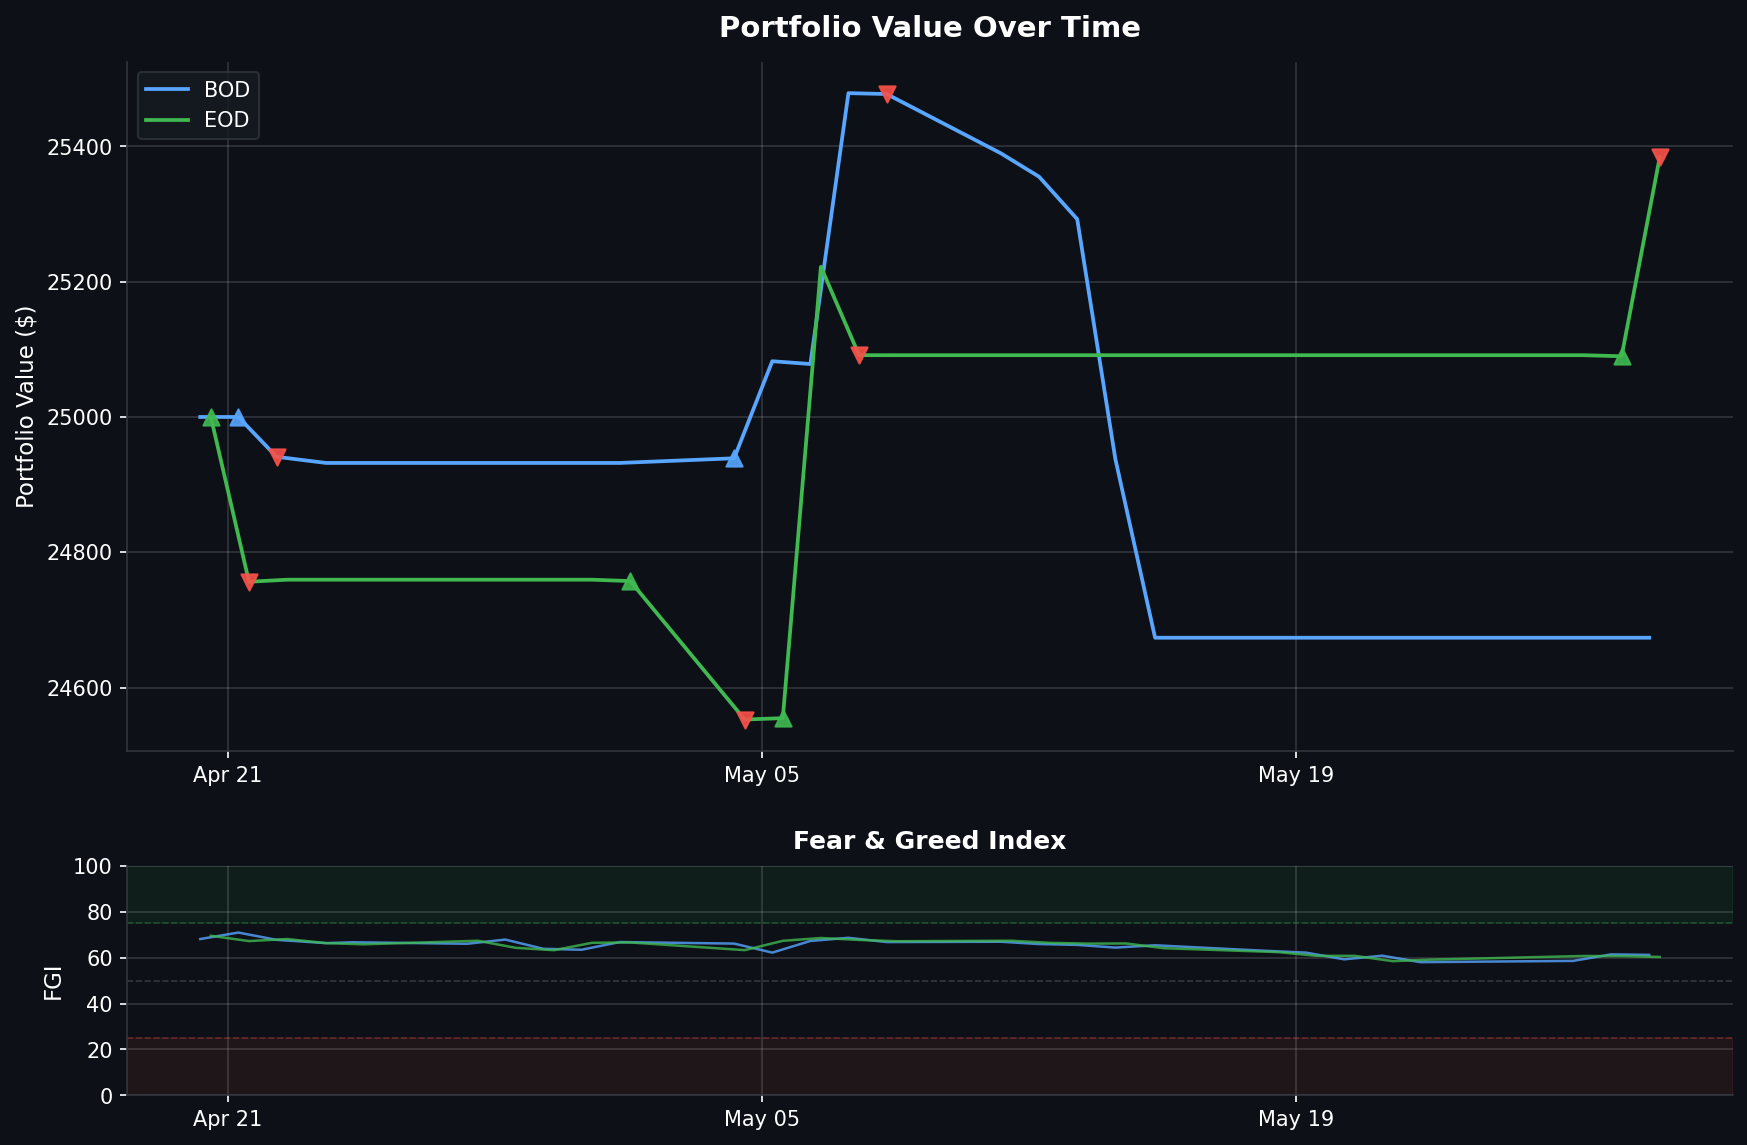
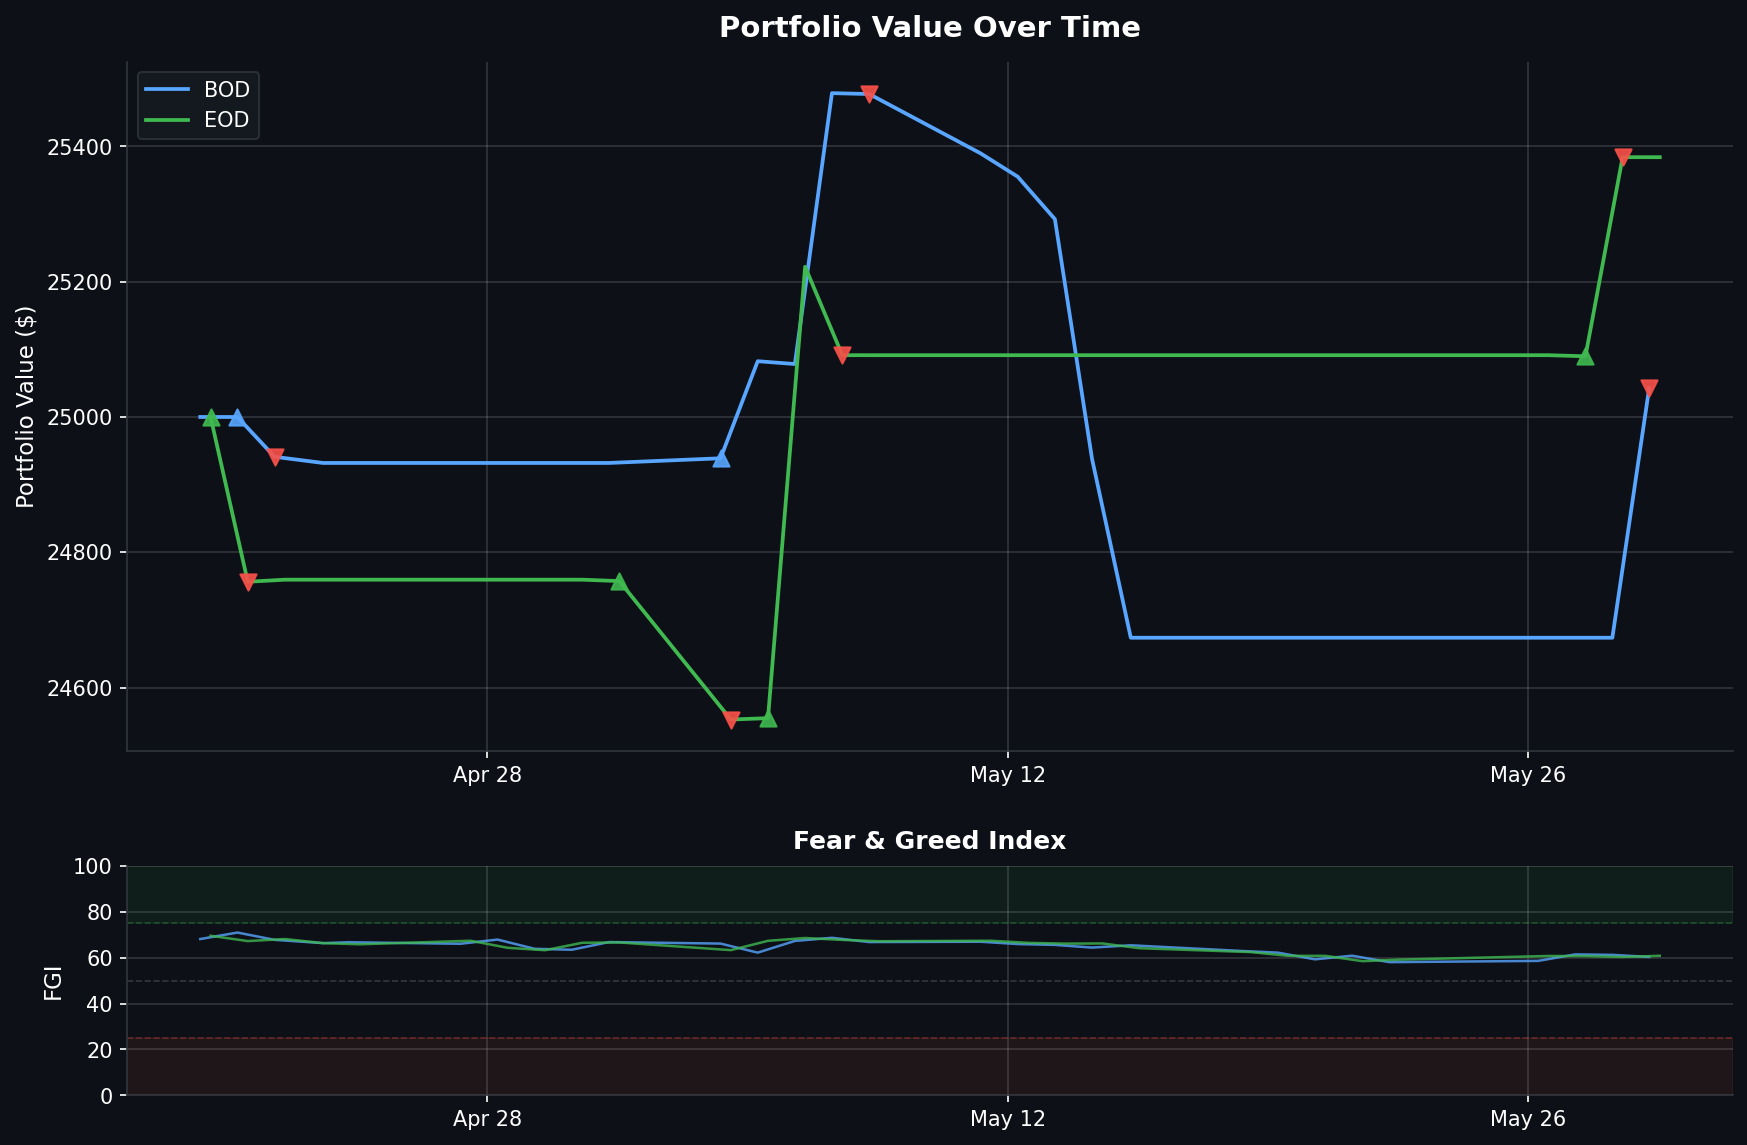
Daily data backup 2026-05-29

diff --git a/README.md b/README.md
@@ -1,6 +1,6 @@
 # Fear & Greed Index Trading Bot
 
-> Dashboard auto-updated daily at market close | Last update: **2026-05-28 13:30 PST**
+> Dashboard auto-updated daily at market close | Last update: **2026-05-29 13:30 PST**
 
 ![Portfolio Performance](assets/portfolio_chart.png)
 
@@ -10,14 +10,14 @@
 
 | Metric | Value |
 |--------|-------|
-| Portfolio Value | **$24,673.63** |
-| Buying Power | $49,347.26 |
-| Current FGI | 61.2 |
+| Portfolio Value | **$25,042.83** |
+| Buying Power | $50,085.66 |
+| Current FGI | 60.31 |
 | Position | FLAT |
 | Total P&L | **$+995** |
 | Win Rate | 50% (1W / 1L) |
 | Total Round Trips | 2 |
-| Last Signal | NO_ACTION @ 2026-05-28 06:33 |
+| Last Signal | SOLD @ 2026-05-29 06:21 |
 
 <details>
 <summary>Trade History (2 trades)</summary>
@@ -34,11 +34,11 @@
 
 | Time | Action | Price | FGI | Momentum | Velocity | Volatility | Reason |
 |------|--------|-------|-----|----------|----------|------------|--------|
+| 05-29 06:21 | SOLD | $755.68 | 60.31 | -0.66 | 0.58 | 0.101 | Momentum reversal or high volatility |
 | 05-28 06:33 | NO_ACTION | $750.37 | 61.2 | 0.81 | 1.06 | 0.1011 | BUY order submission failed after 3 attempts |
 | 05-27 06:33 | NO_ACTION | $750.90 | 61.4 | 2.07 | 0.19 | 0.1042 | BUY order submission failed after 3 attempts |
 | 05-26 06:30 | NO_ACTION | $750.05 | 58.57 | -0.57 | -0.23 | 0.103 | Insufficient momentum/velocity for entry |
 | 05-22 06:30 | NO_ACTION | $746.10 | 58.03 | -1.34 | -1.38 | 0.1048 | Insufficient momentum/velocity for entry |
-| 05-21 06:30 | NO_ACTION | $738.64 | 60.83 | 0.08 | -0.69 | 0.1071 | Insufficient momentum/velocity for entry |
 
 </details>
 
@@ -48,14 +48,14 @@
 
 | Metric | Value |
 |--------|-------|
-| Portfolio Value | **$25,384.12** |
-| Buying Power | $50,768.24 |
-| Current FGI | 60.29 |
+| Portfolio Value | **$25,384.10** |
+| Buying Power | $50,768.20 |
+| Current FGI | 60.8 |
 | Position | FLAT |
 | Total P&L | **$+302** |
 | Win Rate | 50% (2W / 2L) |
 | Total Round Trips | 4 |
-| Last Signal | SOLD @ 2026-05-28 13:11 |
+| Last Signal | NO_ACTION @ 2026-05-29 13:10 |
 
 <details>
 <summary>Trade History (4 trades)</summary>
@@ -74,11 +74,11 @@
 
 | Time | Action | Price | FGI | Momentum | Velocity | Volatility | Reason |
 |------|--------|-------|-----|----------|----------|------------|--------|
+| 05-29 13:10 | NO_ACTION | $756.49 | 60.8 | 0.22 | 0.03 | 0.101 | Insufficient momentum/velocity for entry |
 | 05-28 13:11 | SOLD | $755.22 | 60.29 | -0.26 | 0.38 | 0.1011 | Momentum reversal or high volatility |
 | 05-27 13:11 | BOUGHT | $750.78 | 60.66 | 0.49 | 0.73 | 0.1042 | Strong momentum/velocity, low volatility |
 | 05-26 13:10 | NO_ACTION | $750.56 | 60.71 | 1.27 | -0.02 | 0.103 | Insufficient momentum/velocity for entry |
 | 05-22 13:10 | NO_ACTION | $745.70 | 59.14 | -0.32 | -0.54 | 0.1048 | Insufficient momentum/velocity for entry |
-| 05-21 13:10 | NO_ACTION | $742.77 | 58.46 | -1.54 | -1.31 | 0.1071 | Insufficient momentum/velocity for entry |
 
 </details>
 
